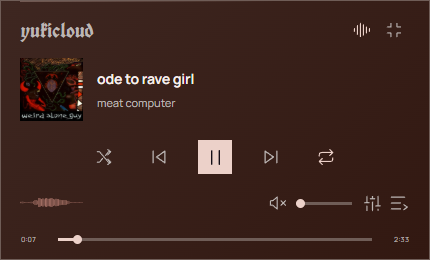
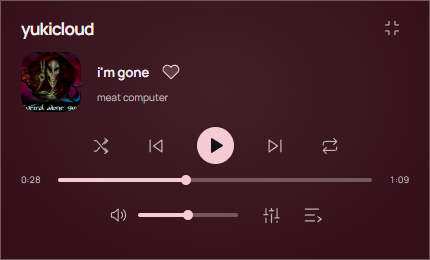
docs: refresh fullscreen and mini player previews for v0.2 [skip ci]
Capture both player layouts from the current production frontend and clarify preview provenance. Label the existing bass recording and queue/EQ images as v0.1.

diff --git a/README.md b/README.md
@@ -10,7 +10,7 @@ SoundCloud для Windows. Спокойное пространство для м
 
 ![Новый интерфейс — тёмная тема](docs/screenshots/redesign-dark.png)
 
-[Светлая тема](docs/screenshots/redesign-light.png). Превью нового интерфейса сняты в браузере с тестовым мостом к нативным командам и сохранёнными обложками.
+[Светлая тема](docs/screenshots/redesign-light.png). Статичные превью интерфейса версии 0.2, включая полноэкранный и мини-плеер, сняты в браузере с тестовым мостом к нативным командам и сохранёнными обложками.
 
 ## Музыка в своём пространстве
 
@@ -22,8 +22,6 @@ SoundCloud для Windows. Спокойное пространство для м
 - «Слушать» на карточке запускает музыку без перехода. Удаление артиста или плейлиста — через ПКМ с подтверждением; наведение не двигает элементы.
 - Очередь и эквалайзер открываются сбоку, сохраняя доступ к рабочему списку. В маленьком окне навигация сжимается до иконок.
 - Полный экран, мини-плеер, контекстное меню и настройка звука сохраняют прежние возможности.
-
-Скриншоты ниже относятся к опубликованной версии 0.1.
 
 - Локальная коллекция любимых треков, артистов и плейлистов.
 - Полные треки плейлистов и постраничная загрузка каталога артиста, включая неполные ответы API.
@@ -38,22 +36,29 @@ SoundCloud для Windows. Спокойное пространство для м
 
 Палитра извлекается из обложки в OKLab: меняется весь плеер, включая фон и текст. Контраст проверяется отдельно. Спектр строится по реальному аудио.
 
-![Полноэкранный плеер](docs/screenshots/fullscreen.jpg)
+![Полноэкранный плеер — версия 0.2](docs/screenshots/fullscreen.jpg)
 
 Кнопка **«Бас»** или **B** включает отклик низких частот: удар обложки и цветного света. Кнопки остаются на месте, чтобы дроп не пришлось ловить мышкой. Режим визуальный; настройку звука оставили эквалайзеру.
 
-![Бас-режим в движении — запись приложения](docs/screenshots/bass.webp)
+<details>
+<summary>Архивная запись бас-режима в версии 0.1</summary>
 
-На паузе эффект затихает, в фоне останавливается. При системном ограничении анимаций пульсация отключена. Скриншоты и анимация здесь сняты с работающего приложения.
+![Бас-режим в движении — запись приложения версии 0.1](docs/screenshots/bass.webp)
+
+</details>
+
+На паузе эффект затихает, в фоне останавливается. При системном ограничении анимаций пульсация отключена.
 
 ## Маленький, но с характером
 
 Мини-плеер закрепляется поверх окон. Разворачивается обратно одной кнопкой. Работу делать всё ещё придётся, зато саундтрек уже есть.
 
-![Мини-плеер](docs/screenshots/mini.png)
+![Мини-плеер — версия 0.2](docs/screenshots/mini.png)
 
 <details>
 <summary>Очередь и эквалайзер</summary>
+
+Скриншоты версии 0.1.
 
 ![Очередь](docs/screenshots/queue.jpg)
 ![Эквалайзер](docs/screenshots/equalizer.jpg)
@@ -130,7 +135,7 @@ powershell -NoProfile -ExecutionPolicy Bypass -File scripts/package.ps1
 
 ## Маленький шрифт, обычным размером
 
-Это неофициальный клиент SoundCloud и ранняя версия **0.1**. API v2 внутренний: изменения сервиса могут потребовать обновления клиента. Региональные ограничения и доступность записей определяет SoundCloud.
+Это неофициальный клиент SoundCloud и ранняя версия **0.2**. API v2 внутренний: изменения сервиса могут потребовать обновления клиента. Региональные ограничения и доступность записей определяет SoundCloud.
 
 Коллекция **локальная**: входа в аккаунт и синхронизации лайков пока нет. Также нет офлайн-загрузки, gapless и crossfade. «Минимализм» здесь иногда честно означает «ещё не написали».
 
